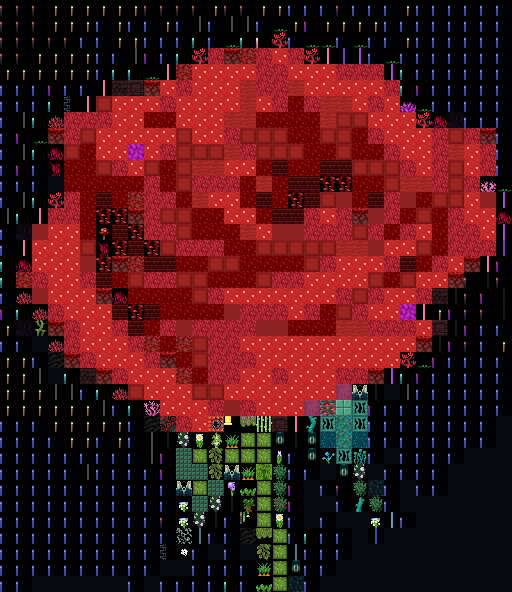
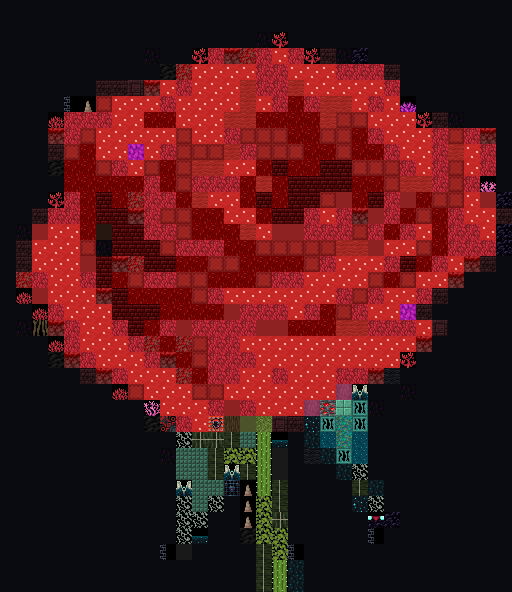
updated with somewhat filtered blocks

diff --git a/block_to_color.py b/block_to_color.py
@@ -38,7 +38,7 @@ def jsonify(dict):
     with open("blocks.json", "w") as file:
         json.dump(dict, file, indent=4)
 
-jsonify(folder_to_colors("blocks_filtered"))
+#jsonify(folder_to_colors("blocks_filtered"))
         
 def findcolor_in_json(color:tuple, filepath:str = "blocks.json"):
     # filters
